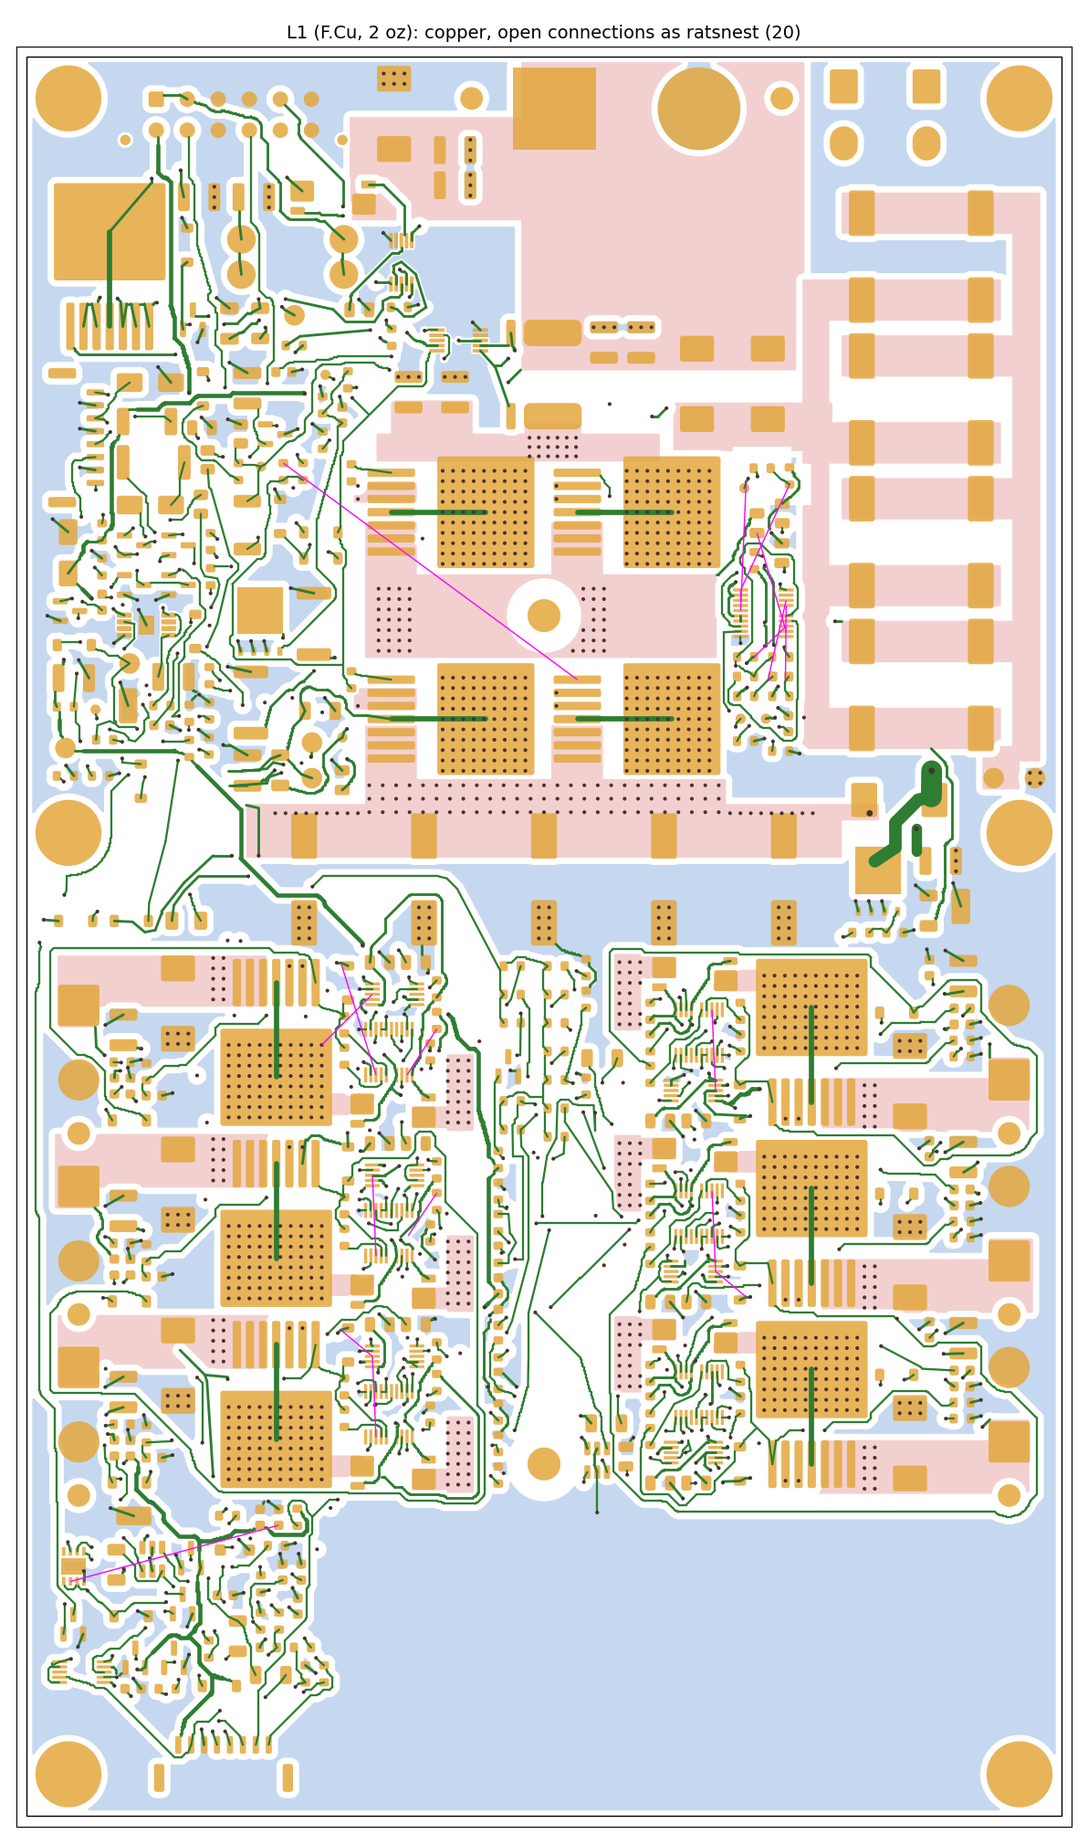
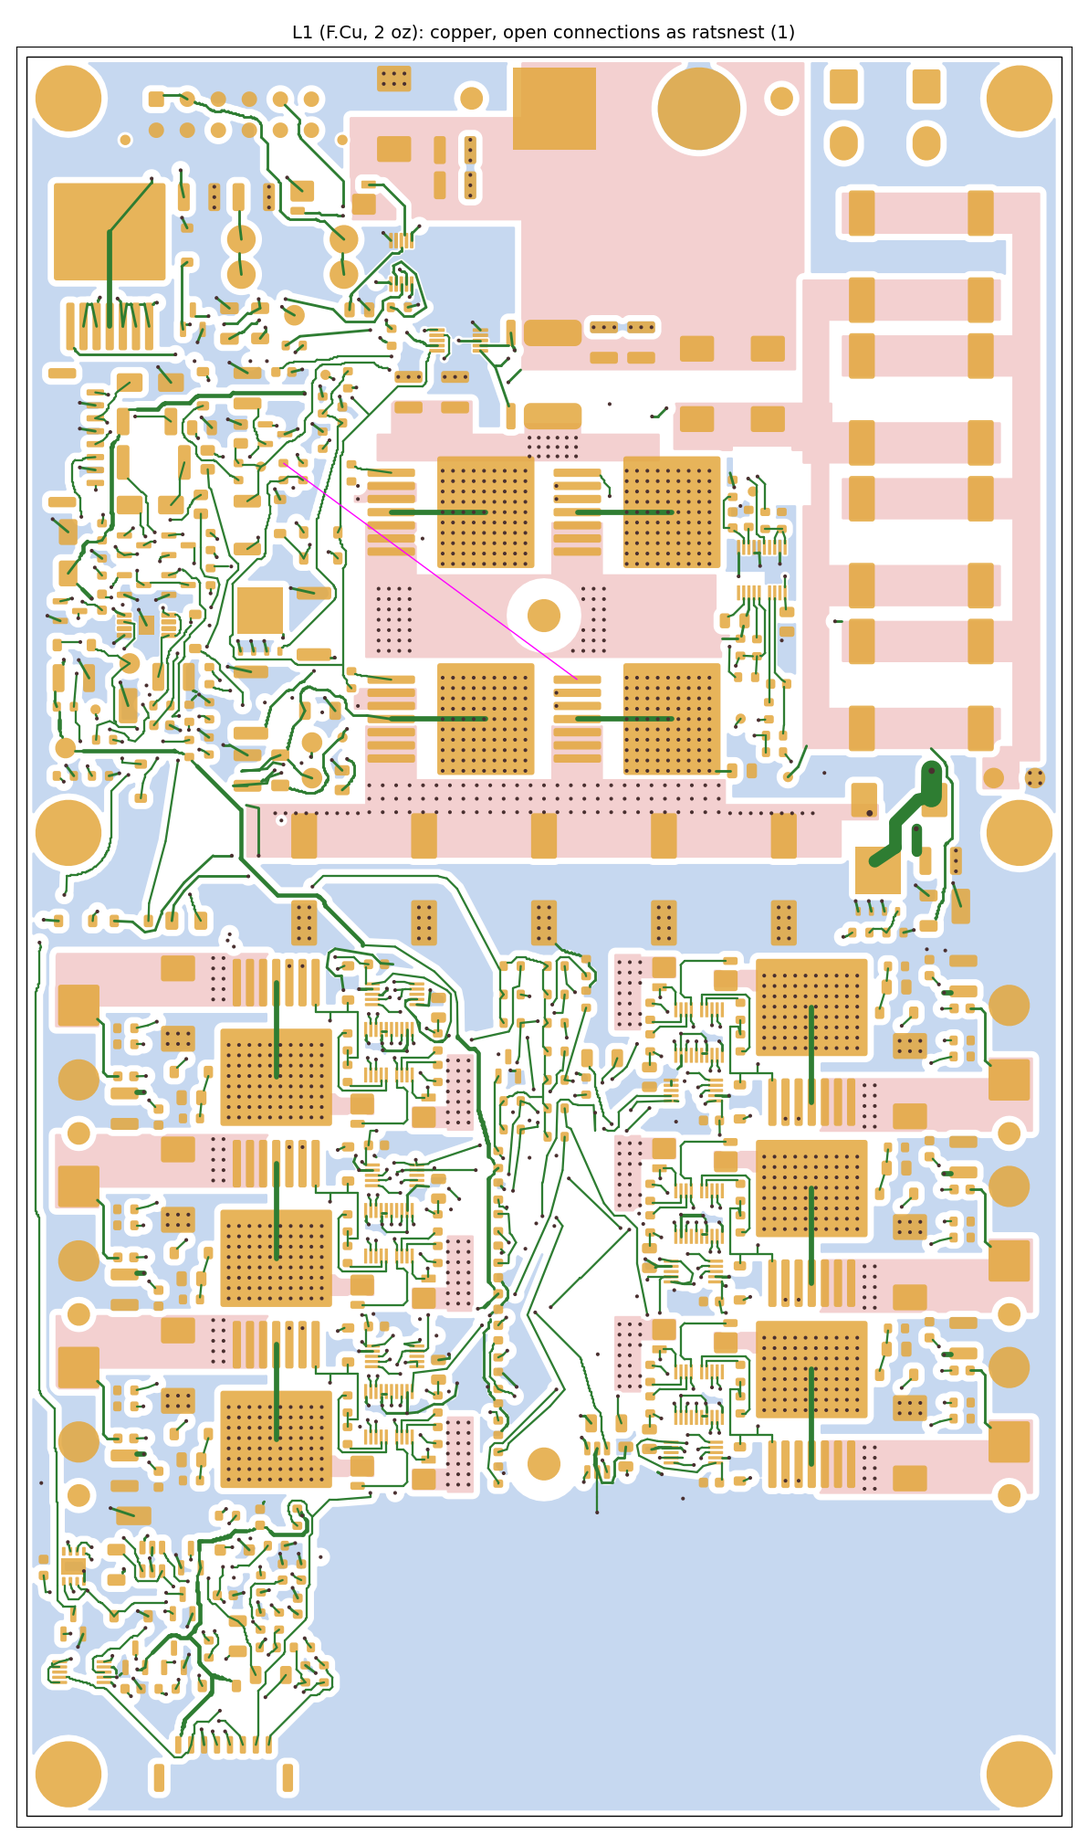
power-board: re-render the routed board (1 connection open: G2); docs for the designed blocks, the J24 fix, verify_board.sh and the G2 decision; stale hand-finish pictures removed

diff --git a/hardware/power-board/layout/HAND_FINISH.md b/hardware/power-board/layout/HAND_FINISH.md
@@ -1,142 +1,48 @@
-# Hand finishing the rev B5 board
+# Finishing the rev B5 board
 
-The scripts leave **59 open connections on 44 nets** (2026-11-09). DRC is clean as it stands; route_checks now fails it
-on the latch keep-out (checks 4 and 5), so re-route first ([LAYOUT_RULES.md](../LAYOUT_RULES.md), "Hand finishing").
-What's left is blocked by copper already in place, so it needs KiCad's push-and-shove router. Expect about 3–4 h for the
-connections plus 1–2 h for the Kelvin pairs. The full list is [open_nets.csv](open_nets.csv), and the background is in
-[LAYOUT_RULES.md](../LAYOUT_RULES.md), "Hand finishing".
+**One connection is open (2026-11-10): G2**, from Q2 pin 1 (the gate, at 153.2, 160.2) to R2 pin 2 (124.8, 139.3).
+Everything else is routed and checked; the background is in [LAYOUT_RULES.md](../LAYOUT_RULES.md), "Routing state".
+[open_nets.csv](open_nets.csv) lists what is open.
 
-## 1. Setup
+## G2
 
-1. Use the worktree on Joey-PC: `J:\code\roark-wt\power-board`. It already has `power-board-route` checked out. Run
-   `git pull` there. (`J:\code\roark` can't switch to this branch while the worktree holds it.)
-2. Open `hardware\power-board\layout\marengo_pdu_revb.kicad_pcb` in **KiCad 10.0** (10.0.8 here).
-3. Check the rules are loaded: File → Board Setup → Design Rules → Custom Rules should show `estop_to_54v` and the
-   U1/U2/U7 fine-pitch rules. Net Classes should show ESTOP and HV54.
-4. Router: Route → Interactive Router Settings → Mode **Shove**. Shove mode never places a DRC violation. Keep the
-   track width "from net class" (0.2 mm signals, 0.25 mm GND and 54 V taps) and vias at 0.6/0.3 mm.
-5. Turn the ratsnest on (left toolbar, "Show ratsnest"). Locked tracks are the finished gate, UVLO and well-paired
-   Kelvin routes (SHL1, SHL3, SHL5 and SH). Shove won't move them.
+Q2's gate pin sits in a 1.7 mm slot between Q1's tab and Q2's own pins. The MID band covers L1 just north of it and the
+MID mirror covers L6 under it, so G2 can leave in two ways only, and each breaks a layout rule:
 
-## 2. Order of work
+| Way | What it does | Rule it breaks |
+|---|---|---|
+| a. One via at (149.9, 160.2), then In2/In3 to R2 | 51 mm, 3 vias in the trial; both measured MID and VBUS widths unchanged | no via through a MID pour; gate nets at most 2 vias |
+| b. F.Cu north across the L1 MID band | no via | cuts the L1 MID pour (MID must not get narrower) |
 
-Coordinates are KiCad X/Y in mm. Each group has a picture with the open connections in magenta. Route signals on F.Cu
-where there's room, otherwise In2 or In3 (signal layers between the GND planes). **Never route on In1 or In4**: they are
-the solid GND planes.
+A third way needs a placement change: R2 at Q2's gate, as R1 is at Q1's (about 2 x 3 mm that isn't free there now).
 
-### 1a. Port meter blocks, right column (L1, L3, L5): 15 connections
-![right column](renders/hand_finish_ports_right.png)
-- **V_L taps** (all three ports, same pattern): eFuse U19/U21/U23 pin 13 (X 166.2) to meter U11/U13/U15 pin 8
-  (X 166.6), about 8 mm straight down. Then pin 8 to the V_L stub at X 169.6. Use F.Cu with a dog-leg round the meter
-  pins, or drop to In3 next to the pin.
-- Singles:
-  - ISCP_L1: R69 to U19 pin 19.
-  - CSP_L3: R88 to U21 pin 18.
-  - EN_L3 and EN_L5: from the RUN_P column at X 148–152 to U21/U23 pin 1. These are long runs; use In3.
-  - INP_L5: R117 to U23 pin 3, also on In3.
-  - TMR_L3 and TMR_L5: U21/U23 pin 9 out to the timer caps at X 188.
-  - GND: U13 pin 2 and U15 pin 2, a short stub and a via each.
-- Template: port L1's EN, CSP and INP lines are finished. Copy their shape for L3 and L5.
-
-### 1b. Port meter blocks, left column (L2, L4, L6): 19 connections
-![left column](renders/hand_finish_ports_left.png)
-- **V_L taps**, mirrored: U20/U22/U24 pin 13 (X 133.8) to U12/U14/U16 pin 8 (X 133.4), then on to D33 or the
-  V_L stub at X 130.3.
-- **C56 and C76 pin 2** (X 108.4, Y 198.7 and Y 233.7) aren't joined to their own V_L2/V_L6 pour. Add a short wide
-  track from the pad onto the pour.
-- Singles:
-  - CSP_L4 and CSP_L6: U22/U24 pin 18 to R98/R118.
-  - ISCP_L2: U20 pin 19 to R79.
-  - IWRN_L4 and IWRN_L6: U22/U24 pin 8 to R100/R120.
-  - D_L2: U12 pin 8 to the via at (128.5, 195.5).
-- Long runs, all on In3:
-  - EN_L2, EN_L4 and EN_L6: the RUN_P column at X 145–148 to U20/U22/U24 pin 1.
-  - INP_L6: R127 to U24 pin 3.
-  - TMR_L6: U24 pin 9 to R121 at X 111.5.
-
-### 2. Remaining singles: 11 connections
-| Group | Net | From | To | Picture |
-|---|---|---|---|---|
-| U7 | BRK_P | R26 pin 1 (135.2, 124.2) | U7 pin 7 (135.7, 122.0) | [s_u7](renders/hand_finish_s_u7.png) |
-| U7 | BRK_PG | track end (121.7, 124.8) | U7 pin 8 (136.2, 122.0) | same |
-| CL taps | CL_HY | R22 pin 2 (145.6, 211.8) | R64 pin 1 (145.6, 216.6) | [s_cl](renders/hand_finish_s_cl.png) |
-| CL taps | CL_OUT | R22 pin 1 (145.6, 213.5) | track end (150.7, 220.8) | same |
-| CL taps | CL_SENSE | In3 track end (147.6, 214.2) | R21 pin 1 (145.6, 210.4) | same |
-| | CWD | U25 pin 2 (104.2, 247.3) | C81 pin 1 (124.3, 241.9) | [s_cwd](renders/hand_finish_s_cwd.png) |
-| | FB_CTL | U2 pin 2 (109.4, 154.6) | R7 pin 2 (104.5, 162.8) | [s_fb](renders/hand_finish_s_fb.png) |
-| | G2 | R2 pin 2 (124.8, 139.3) | Q2 pin 1, gate (153.2, 160.2) | [s_g2](renders/hand_finish_s_g2.png) |
-| | MID_Z | D14 pin 2 (106.3, 183.5) | R48 pin 1 (116.8, 144.2) | [s_zener](renders/hand_finish_s_zener.png) |
-| | VB_Z | D16 pin 2 (111.7, 183.5) | R58 pin 1 (117.5, 139.9) | same |
-| GND | 2 F.Cu GND fill islands | click the two GND "zone to zone" items in the DRC list | add a GND via in each, or delete the island | – |
-
-G2 rides 54 V. Keep it on F.Cu over In1 with GND beside it, like GATE.
-
-### 3. Latch block (E-stop class, 1.5 mm from every 54 V net): 12 connections
-![latch](renders/hand_finish_latch.png)
-- Round U8 (X 169–174, Y 151–156):
-  - EN_A: U8 pin 1 to pin 3 (go round pin 2, which is GND), and pin 1 up to (173.2, 140.9).
-  - FLT_A: U8 pin 5 up to (169.6, 141.2).
-  - BST_A: C28 pin 1 (170.6, 146.0) to U8 pin 12.
-  - CSN_A and CSP_A: U8 pins 17 and 18 down to (173.3, 160.3) and (171.7, 160.2).
-  - MID: R30 pin 2 (170.3, 158.0) to U8 pin 13 and to the via at (166.0, 160.0).
-  - TMR_A: U8 pin 9 to (173.2, 164.8).
-- L_B ([picture](renders/hand_finish_l_lb.png)): the track end at (114.0, 162.2) to C7 pin 1, and R12 pin 2 to the In2
-  track end at (117.2, 148.3).
-- MID tap ([picture](renders/hand_finish_l_mid.png)): D14 pin 1 (103.0, 183.5) to R47 pin 1 (122.6, 248.4), a long
-  54 V run on In2 or In3. Keep it 1.5 mm from the E-stop nets in the latch block.
-- The custom rule enforces the 1.5 mm, and KiCad won't let you place closer. Inside U1, U2 and U7's courtyards 0.15 mm
-  applies.
-
-### 4. Kelvin re-pairs: last
-![kelvin](renders/hand_finish_kelvin_left.png)
-- Re-route SHL2 (0 % paired), SHL4 (25 %; SHL4_N is also open at R99) and SHL6 (33 %) as tight pairs. Picture 4b
-  ([SH9](renders/hand_finish_kelvin_sh9.png)) shows SH9 (8 %) from RS9 to U7.
-- What a good pair looks like: both legs leave the shunt's Kelvin pads together and run side by side to the meter's
-  IN+/IN- pins:
+To apply way a once it is approved (from `hardware/power-board/schematic`, KiCad's Python as `$KP`):
 
 ```
- shunt (4-pad Kelvin)                                 meter / eFuse
-  P pad ─┐                                        ┌─ IN+ (SHLx_P)
-         ╞═══ P and N side by side, 0.2 mm apart ═╡
-  N pad ─┘    same layer, no other net between    └─ IN- (SHLx_N)
-              at most one via each, placed together
+SOFTZ=1 "$KP" tools/lay_path.py ../layout/marengo_pdu_revb.kicad_pcb work/g2a.kicad_pcb "/G2=F:150.9,160.19 149.9,160.19;v:149.9,160.19;3:149.9,160.19 149.9,159.2"
+# DRC on work/g2a.kicad_pcb (tools/verify_board.sh work/g2a.kicad_pcb writes drc.json with KEEP=<dir>), then:
+G2_VIAS=1 COMPONENTS=1 WINDOW=20 SECONDS=400 "$KP" tools/finish_route.py work/g2a.kicad_pcb work/g2b.kicad_pcb <drc.json> G2
 ```
 
-- SHL1, SHL3 and SHL5 (about 53 % paired, locked) show the pattern. Delete the old leg first (select the track, `U` to
-  select the whole net segment, Delete), then route P, then N alongside it.
+## Rules while finishing by hand
 
-## 3. Don'ts
-- **No new vias in the VBUS band, Y 180–190 mm, X 130–160** (the L6 VBUS pour where the full 60 A flows). 27 vias
-  are already there. If a route there is easy to move, move it out.
-- Don't unlock or drag locked tracks.
-- Keep E-stop nets (ESTOP class) at 1.5 mm from 54 V copper; the DRC holds it, so don't turn DRC off to force a route.
-- Don't route on In1 or In4, and don't put vias in pads (hand assembly).
+- No new vias in the VBUS band, Y 180-190 mm, X 130-160 (18 signal vias are there).
+- Don't unlock or drag locked tracks: the port and U8 templates, the gate drives and the Kelvin pairs are locked.
+- E-stop nets (ESTOP class) keep 1.5 mm from 54 V copper; the DRC holds it. Inside U1, U2, U7 and U8's courtyards 0.15 mm applies.
+- No tracks on In1 or In4, no via in or touching a pad.
 
-## 4. Finish
-In PowerShell:
+## Checks
+
+From `hardware/power-board/schematic`:
 
 ```
-cd J:\code\roark-wt\power-board\hardware\power-board\schematic
-& "C:\Program Files\KiCad\10.0\bin\kicad-cli.exe" pcb drc --format json --schematic-parity -o $env:TEMP\drc.json ..\layout\marengo_pdu_revb.kicad_pcb
-python tools\open_nets.py $env:TEMP\drc.json ..\layout\open_nets.csv
-& "C:\Program Files\KiCad\10.0\bin\python.exe" tools\route_checks.py ..\layout\marengo_pdu_revb.kicad_pcb
-& "C:\Program Files\KiCad\10.0\bin\kicad-cli.exe" sch export netlist --format kicadsexpr -o $env:TEMP\net.net marengo_pdu_revb.kicad_sch
-python -I tools\check.py tools $env:TEMP\net.net
+bash tools/verify_board.sh            # DRC with schematic parity, open nets, route_checks, check.py; exit 1 on a failure
+"$KP" tools/pour_width.py ../layout/marengo_pdu_revb.kicad_pcb   # narrowest VBUS and MID cross-sections
 ```
 
-You're done when:
-- DRC shows 0 violations other than the 8 library notices;
-- open_nets.csv lists only its header;
-- route_checks shows 0 clearance violations;
-- check.py shows `FAILS 0`.
+verify_board.sh copies the board next to the schematic before the DRC. Run in layout/, KiCad's parity check only prints
+"Failed to fetch schematic netlist" and checks nothing.
 
-Then commit and push:
-
-```
-cd J:\code\roark-wt\power-board
-git add hardware/power-board/layout/marengo_pdu_revb.kicad_pcb hardware/power-board/layout/open_nets.csv
-git commit -m "power-board: hand-finished routing"
-git push
-```
-
-Or just say "done" in the project and Claude will run the checks, re-render and push.
+Done means: DRC shows no violations, `unconnected 0`, `parity 0`; route_checks shows 0 in checks 1/2, 4, 5 and 6; check.py
+shows `FAILS 0`. Then re-render (`tools/render_export.py`, `tools/render_routed.py`) and commit the board,
+open_nets.csv and the renders.

diff --git a/hardware/power-board/LAYOUT_RULES.md b/hardware/power-board/LAYOUT_RULES.md
@@ -141,7 +141,9 @@ that is never coated must not go on the pack.
   [schematic/tools/stack.py](schematic/tools/stack.py)). The zones were built with 0.6 mm, the old uncoated outer-layer
   value, and a row of vias at 0.85 mm pitch under a fine-pitch IC then cut the planes away completely. IPC-2221B B1
   (internal conductors, 51–100 V) asks 0.1 mm. With 0.3 mm a 0.6/0.3 mm via keeps 0.45 mm from its drill to the plane
-  and a pad without an inner land 0.3 mm (check against the fab's hole-to-inner-copper minimum when ordering). The
+  and a pad without an inner land 0.3 mm. JLCPCB's capability page (read 2026-11-10) asks 0.2 mm from an inner-layer via
+  hole to copper and 0.3 mm from a PTH pad hole; all 40 PTH pads here keep their inner lands, so their holes are
+  further than 0.3 mm from the planes. The
   outer GND fills keep 0.6 mm. schematic/tools/route_power.py builds the zones with it, schematic/tools/plane_clearance.py sets it
   on a routed board, and route_checks.py check 6 tests it.
 - **DRC rules** (layout/marengo_pdu_revb.kicad_dru; a later rule wins in KiCad):
@@ -161,37 +163,49 @@ that is never coated must not go on the pack.
 - **Holes:** no copper within 2 mm of the heatsink screw holes HS1/HS2 (the screw and the heatsink aren't insulated from
   it), 0.6 mm round the tie holes and the M3 mounting pads (rule areas from schematic/tools/place.py).
 
-## Hand finishing (2026-11-09, 6 layers)
+## Routing state (2026-11-10, 6 layers)
 
-The autorouters don't finish this board. schematic/tools/route_stages.sh (critical nets, rails, the I2C/VCTL/RUN_P bus, the port
-meter nets, the rest, schematic/tools/route_fixes.py, then schematic/tools/patch_route.py for short connections) leaves **59 connections on
-44 nets** open, with DRC clean (0 clearance violations, schematic parity 0) and route_checks clean. Freerouting 2.5
-thrashed again (about 2,800 violations after six passes) and is not used; shuffled net orders did no better.
-- The meter block sits over the L6 VBUS pour. Without vias through that pour (`SOFTV` in schematic/tools/grid_route.py) every
-  signal there was confined to F.Cu and the bus nets could not route at all; with them, 123 open connections became 67,
-  and patch_route.py closed 8 more. 94 signal and GND vias now pass through the VBUS pour, 27 of them in the 180–190 mm
-  band where the full 60 A flows: keep new vias out of that band when finishing, and move some out if it is easy.
-- What is left is blocked by copper already placed (neighbouring pins, Kelvin pads, GND vias), so it needs KiCad's
-  push-and-shove:
-  - port meter and eFuse blocks, about 30: V_L taps (U19–U24 pin 13 to U11–U16 pin 8 and the C51/C56/C71/C76 pads),
-    EN_L, TMR_L, ISCP/IWRN_L, CSP/INP_L, D_L2;
-  - latch block round U8, about 12, by class (layout/open_nets.csv): E-stop (1.5 mm to 54 V) EN_A, FLT_A, L_B; 54 V
-    MID; riding on 54 V BST_A, CSN_A, CSP_A; signal TMR_A;
-  - 54 V and 54 V-riding, local: BRK_P/BRK_PG at U7, G2 at Q2/R2, SHL4_N at R99, D_L2 at U12;
-  - signal and GND: 4 GND pins on U13 and U15; the CL comparator taps (CL_HY, CL_OUT, CL_SENSE); CWD, FB_CTL, MID_Z, VB_Z.
-- The committed board predates the latch keep-out in schematic/tools/grid_route.py and route_checks.py checks 4 and 5:
-  it has BAT copper on the inner layers under the latch block, and an E-stop RUN_P via inside the L6 VBUS pour
-  outline (about X −5, Y 253). Re-route on a KiCad machine (schematic/tools/build_board.sh from `route`) before hand
-  finishing; the counts above will change.
-- Kelvin pairs to re-route as tight pairs: SHL2 (0 % paired), SHL4 (25 %), SHL6 (33 %) and SH9 (8 %).
-- Estimate in KiCad's interactive router: about 3–4 h for the connections, plus 1–2 h for the four Kelvin pairs.
-- The step-by-step checklist, with a picture per group: [layout/HAND_FINISH.md](layout/HAND_FINISH.md).
+One connection is open: **G2** (Q2 pin 1 to R2). Everything else is routed, with DRC clean (0 clearance, 0 shorts,
+schematic parity 0), route_checks clean and check.py at 0 fails. `schematic/tools/verify_board.sh` runs the whole set next to a
+copy of the schematic, so the parity check really runs (in layout/ KiCad only prints "Failed to fetch schematic netlist"
+and checks nothing; the earlier "parity 0" reports came from that).
 
-The rest is finished by hand in KiCad, starting from the board with the power stage and the locked critical pre-routes:
-- Net classes ESTOP, HV54 and P12 are set, and the DRC holds the E-stop rule.
-- Run `MARENGO_COATED=1 schematic/tools/route_checks.py` after each session. It is the authority for the 54 V domain rule; coated,
-  that rule is the 0.2 mm default.
-- The open nets are in layout/open_nets.csv (schematic/tools/open_nets.py, from the DRC's unconnected items).
+How the board got there:
+- **Staged scripts** (schematic/tools/route_stages.sh, then the finish_* tools) for the general routing. Generic routers
+  stalled at the port taps and at U8, so those two are now designed:
+- **Port block template** (schematic/tools/port_template.py for placement and rip-up, port_copper.py for the copper,
+  port 1's page mm mapped to the other five; the left ports are the right ports turned 180 degrees, part for part):
+  - logic row of the eFuse (EN, INP, PORT_FLT_N, GND): inward to one row of vias under the body, In3 from there;
+  - 54 V row: V_L (pin 13) and BST inward to a via each; GPU/GPD outward through the two-track channel under the shunt
+    to R4/R5 beside the eFuse; the gate node runs 9 mm on F.Cu to the zener and the gate pin, with one In3 link to the
+    slew diode right of the FET (the old gate node looped 30 to 130 mm round the FET);
+  - Kelvin pair on In2 down the west side of the eFuse, P outside and N inside at 0.6 mm, feeding R0/C2 and R1 through one
+    via each and ending at the meter's pins 10/9: **76 % paired on all six ports**;
+  - the sense resistors, the bootstrap and the timer/limit parts keep one In2/In3 lane each across the FET's pin row.
+  - Port 2's meter reads D_L2 on pin 8 (deliberate: schematic/gen/gen.py and check.py), so its tap is laid by hand on B.Cu
+    to the L6 drain mirror instead of the template's V_L tap.
+- **U8 block** (schematic/tools/u8_block.py): U8 sits between bank A/B's tabs (54 V) and the ABS spine (54 V), 7 mm apart,
+  so its E-stop pins could not leave sideways at 1.5 mm. U8 is turned so the logic row faces north and the 54 V row
+  south; R27, R28, TP13, R36, C29 and R37 sit north of it, every 54 V part south. EN_A and FLT_A run from the pins on
+  F.Cu with no via. The SH pair runs on In2 down the middle of the column to R61/R62 (50 % paired, was 48 %).
+- **J24** pads 6-12 were on the pinout from before split S1's review fixes; they now follow the schematic (6 +3V3_PI,
+  7-8 GND, 9 SP_EN, 10 GND, 11 SCL, 12 SDA, as on the buck board's J1) and their nets are re-routed.
+  schematic/tools/sync_netlist.py does this on an existing board, with the values, datasheets and attributes.
+- **C81** (the watchdog's CWD cap) sits beside U25's pin 2 (place.py MOVED); the packer had put it 20 mm away.
+
+Measured on the filled zones (schematic/tools/pour_width.py), unchanged from the board before: VBUS neck (Y 178-190)
+18.9 mm on L6, MID band (Y 150-158) 21.1 mm (10.0 mm L1 + 11.1 mm L6). Signal vias in the VBUS band (X 130-160,
+Y 180-190): 18 (were 24).
+
+**G2, the open connection.** Q2's gate pin lies in a 1.7 mm slot between Q1's tab and Q2's own pins, under the MID
+band on L1 and over the MID mirror on L6. From there G2 can only leave (a) through a via, which pierces the L6 MID
+mirror, or (b) on F.Cu across the L1 MID band, which cuts that pour. Both break a rule here (no via in a MID pour; MID
+must not get narrower), so it is left for a decision. A trial of (a), one 0.6 mm via at (149.9, 160.2) and In2/In3 to
+R2, routes G2 in 51 mm with 3 vias and leaves both measured widths unchanged, since the via is south of the MID neck.
+The alternative is R2 at Q2's gate, as R1 is at Q1's, which needs about 2 x 3 mm that the placement doesn't have.
+
+Kelvin pairs still poorly paired: **SH9 (8 %)**. RS9's N sense pad is on the far side of its BAT pad from U7, so N has to
+pass under that pad on In2 while P stays on F.Cu; a better pair needs RS9 or U7 moved.
 
 Gate parts (schematic/tools/place.py, 2026-11-09):
 - Each port's gate-source zener (D24, D27, D30, D33, D36, D39) sits at its FET's gate pin, between the meter and the FET.

diff --git a/hardware/power-board/README.md b/hardware/power-board/README.md
@@ -4,20 +4,19 @@ The robot's main power board: the 54 V battery path (soft start, two FET banks, 
 with eFuses and meters, and the E-stop latch. Rev B5: 100 × 170 mm, 6 layers (2 oz outer / 0.5 oz inner), conformal-coated
 after bring-up. A separate buck board makes the 12 V and carries the 12 V outputs (split S1, 2026-11-09).
 
-**Status (2026-11-09):** schematic done, ERC clean. The 6-layer board in [layout/](layout) is placed and routed by
-script (schematic/tools/build_board.sh: placement, power stage, then schematic/tools/route_stages.sh for the signal
-routing in five locked stages). It leaves **59 open connections on 44 nets** ([layout/open_nets.csv](layout/open_nets.csv))
-and four Kelvin pairs (SHL2, SHL4, SHL6, SH9) to re-route as tight pairs, all for hand finishing in KiCad
-([layout/HAND_FINISH.md](layout/HAND_FINISH.md)). It must be re-routed once more first: the committed board predates the
-latch keep-out ([LAYOUT_RULES.md](LAYOUT_RULES.md), "Hand finishing"). No script in the repo regenerates the renders in
-layout/renders/. The big review is still pending before the board is ordered.
+**Status (2026-11-10):** schematic done, ERC clean. The 6-layer board in [layout/](layout) is routed except for **one
+connection, G2** (Q2's gate to R2; [layout/HAND_FINISH.md](layout/HAND_FINISH.md) has the reason and the two ways to
+close it). DRC is clean with schematic parity 0, route_checks and check.py pass (schematic/tools/verify_board.sh runs
+them all). The six port blocks and the U8 block are designed templates (schematic/tools/port_template.py, port_copper.py,
+u8_block.py); the rest was routed by the staged scripts and the finishing tools. The pictures in layout/renders/routed_*
+come from schematic/tools/render_export.py and render_routed.py. The big review is still pending before the board is ordered.
 
 | What | Where |
 |---|---|
 | Parts, bring-up steps, accepted risks | [REV_B_PARTS.md](REV_B_PARTS.md) |
 | Cost, ordering, assembly, coating | [PRODUCTION_RUN.md](PRODUCTION_RUN.md) |
 | Layout rules (spacing, E-stop, Kelvin, gates, hand finishing) | [LAYOUT_RULES.md](LAYOUT_RULES.md) |
-| Hand-finishing checklist (open connections by group, with pictures) | [layout/HAND_FINISH.md](layout/HAND_FINISH.md) |
+| What is still open, and the checks to run | [layout/HAND_FINISH.md](layout/HAND_FINISH.md) |
 | Heatsink (option D) | [THERMAL_OPTION.md](THERMAL_OPTION.md) |
 | What rev B5 changed | [REVB5_CHANGES.md](REVB5_CHANGES.md) |
 | Bill of materials and the two-set kit to order from | [bom-rev-B.csv](bom-rev-B.csv), [kit-2sets.csv](kit-2sets.csv) |
